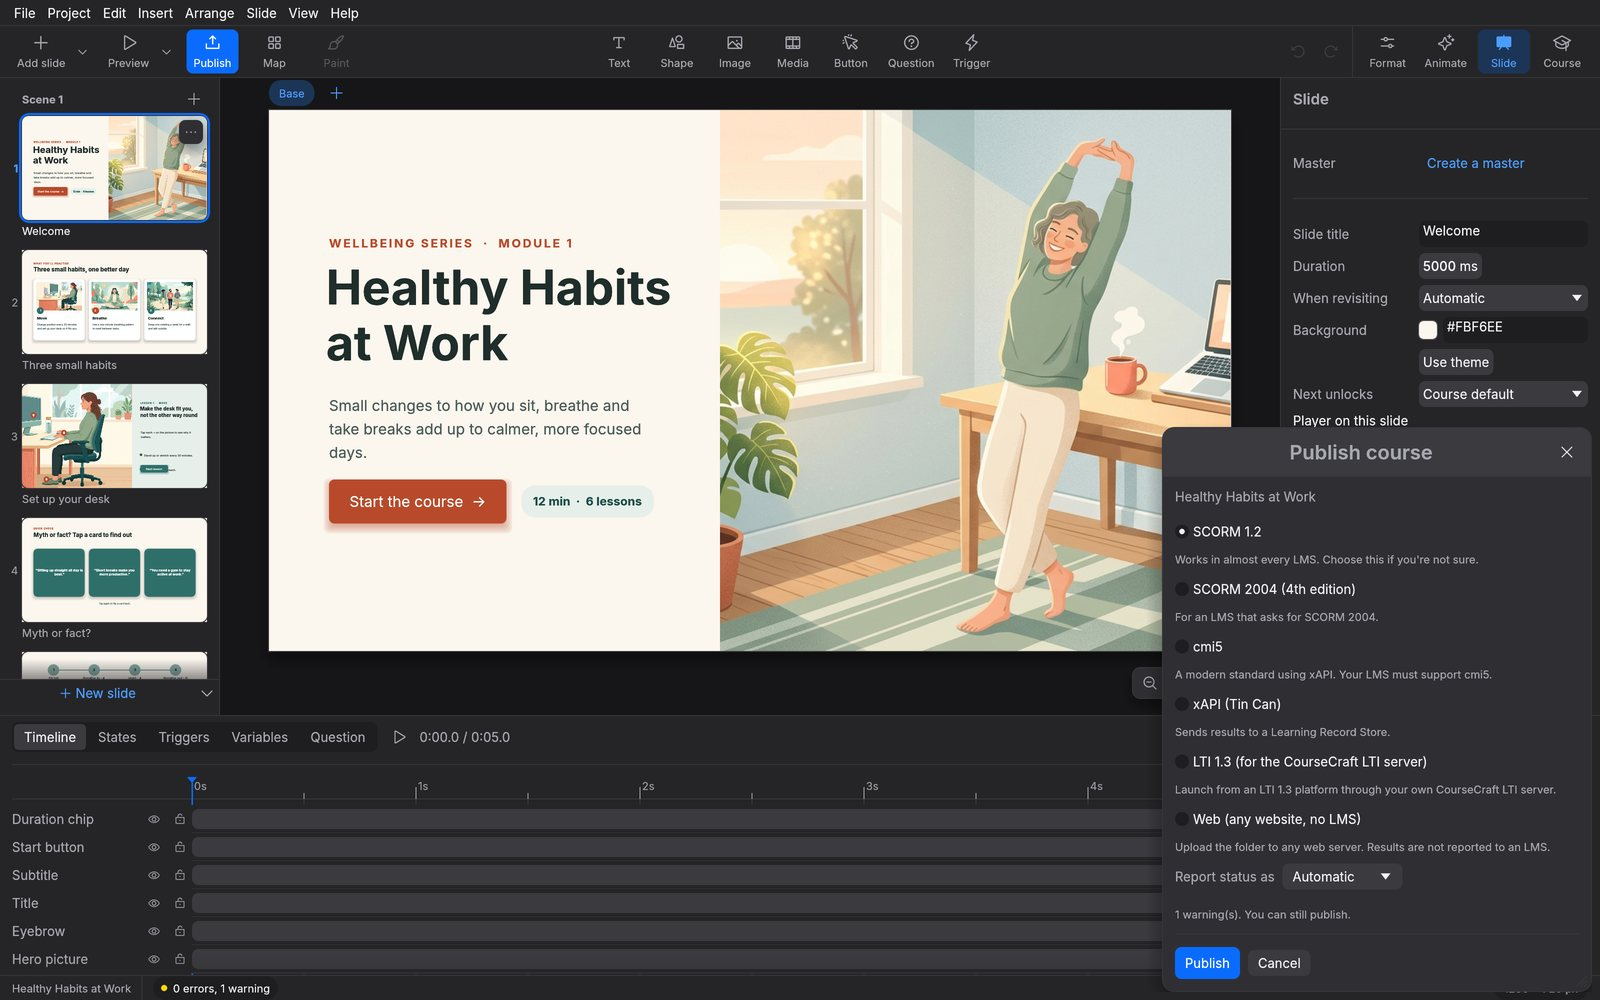
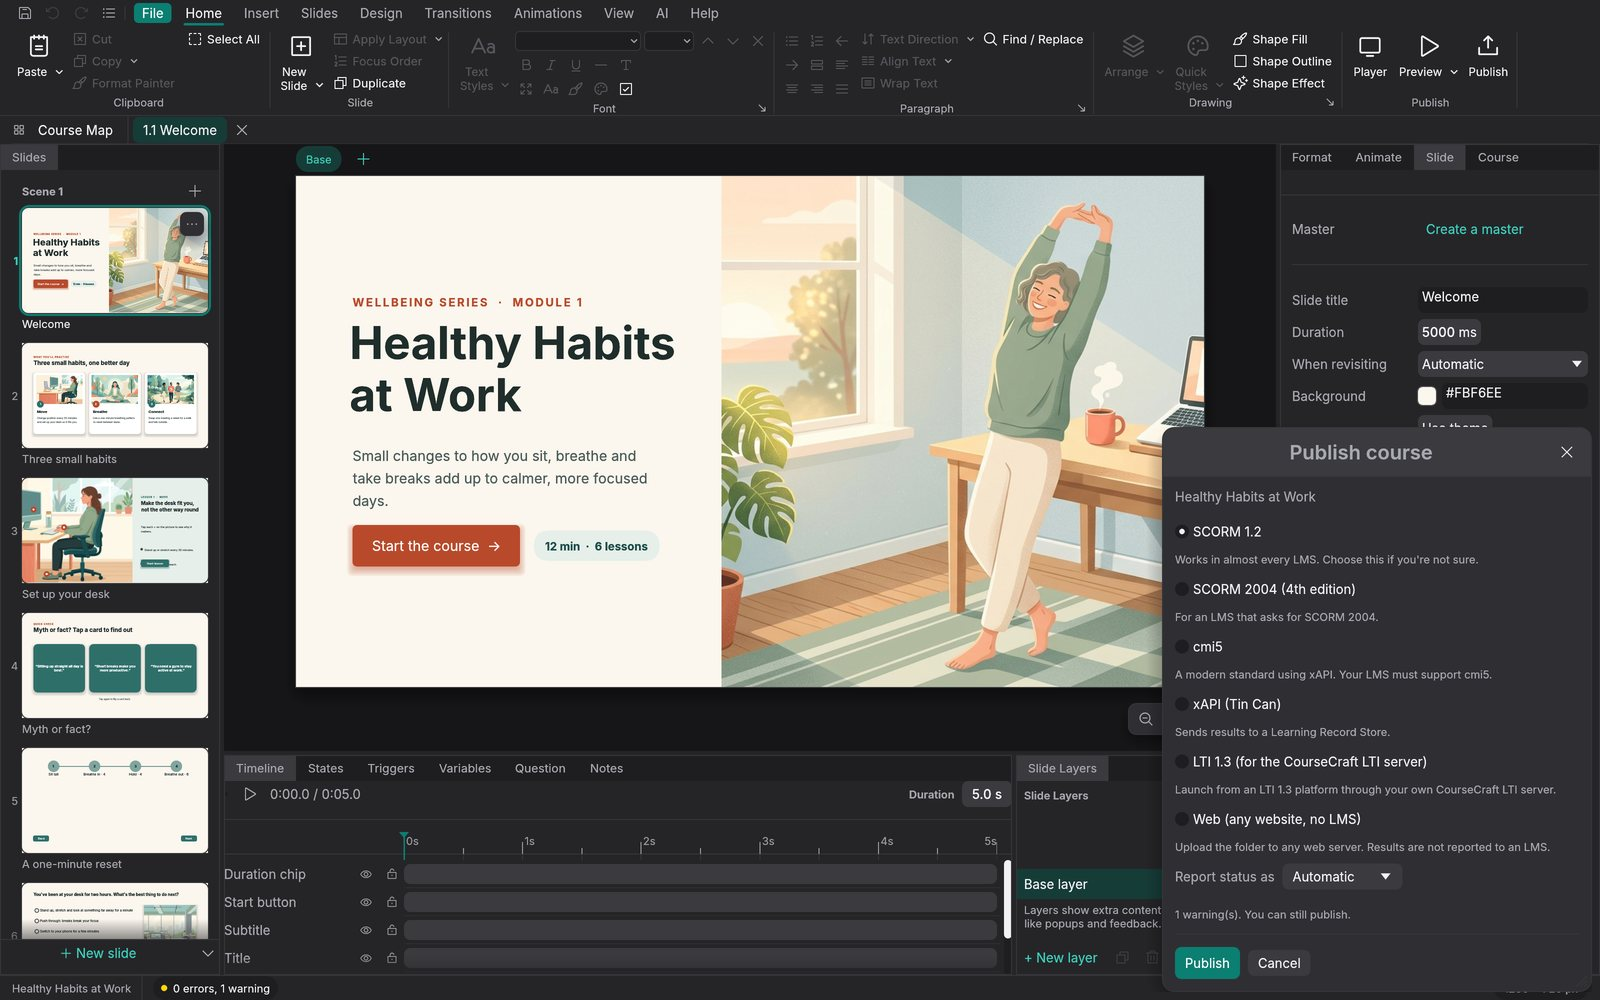
README: new screenshots and tour of the 0.5.0 ribbon editor; refresh features and updates

diff --git a/README.md b/README.md
@@ -44,12 +44,14 @@ CourseCraft checks for a newer version when it starts (turn that off in Preferen
 - **Installer (`coursecraft-<version>-windows-x64-setup.exe`):** Installs per user into `%LOCALAPPDATA%\Programs\CourseCraft` without administrator rights, adds a Start menu shortcut (and an optional desktop shortcut), and registers an uninstaller in Windows **Settings → Apps**.
 - **Settings and logs:** Preferences, saved project version history, and crash notes (`last-crash.txt`) are stored in `%APPDATA%\CourseCraft`.
 
-Built to the conventions of the [ArtCraft](https://github.com/storytold) Crafting Apps: native egui/wgpu, the same code on the web via WebAssembly, every action a command, and no crashes.
+Built to the conventions of the [ArtCraft](https://github.com/storytold) Crafting Apps, and on their open-source `craft-ui`, `craft-i18n` and `craft-update` libraries (the same ones DeckCraft uses): native egui/wgpu, the same code on the web via WebAssembly, every action a command, and no crashes.
 
 ## What it does
 
+- **A ribbon editor with panels you arrange:** commands grouped in ribbon tabs, with extra tabs for what you select, and Slides, Timeline, Triggers, States, the inspectors and more as panels you can move, tab, split, float or close. Your layout is saved, and every label is ready for translation.
 - **A visual editor** on the desktop and in the browser: multi-select, align and distribute, smart guides, grouping, copy and paste, slide masters, layouts and templates, find and replace, image crop, a timeline, and PowerPoint import.
 - **Interactive courses:** layers, triggers, variables, animation, and twelve question types with feedback, question banks and results slides.
+- **Text and buttons that behave:** click to place a label that fits its text and grows as you type, or drag a box that wraps. Group a shape, icon and text and make the group act as one button, with one hover look, one click, one Tab stop and one screen-reader name.
 - **Rich object states:** hover, pressed, selected, visited and your own states, each a full second look for an object (picture, text, fill, outline, shadow, glow, rotation and items of its own), all side by side in the States tab and edited right on the canvas.
 - **Any slide size:** Full HD, HD, 4:3, square or portrait, or your own; resize a whole course with a live preview of how content fits.
 - **A calm, consistent editor** in dark and light, checked screen by screen against the same UI rules, and a learner player with a seekbar you can lock and a Play button before a web course starts.
@@ -114,7 +116,7 @@ Choose Help > Report a Problem to tell us what went wrong, or Help > Suggest a F
 - **What is shared.** Your two answers, plus (if you leave "Include technical details" on) the CourseCraft version, your OS and CPU, whether this is the desktop or web app, the last 20 status messages from this session, and a note about the last crash if there was one. All of it is shown in the window before you send anything.
 - **What is never shared.** Course content, file names, file paths, user names, AI keys and settings. Paths and file names in messages are replaced with `<path>` and `<file>`.
 - **After a crash.** The desktop app writes a short `last-crash.txt` (time, version, OS, panic message and location, paths removed) to its settings folder. On the next start it asks whether to report it, and deletes the file once you report or dismiss it.
-- **Updates.** The desktop app checks GitHub Releases for a newer version at start (which you can turn off in Preferences) or when you choose Help > Check for Updates. Downloads are verified against the release's `SHA256SUMS.txt`, and nothing installs or restarts without your confirmation.
+- **Updates.** The desktop app checks GitHub Releases for a newer version at start (which you can turn off in Preferences) or when you choose Help > Check for Updates. Downloads are verified against the release's `SHA256SUMS.txt`. On macOS and Linux it can install the update with Update and Restart, only when you click it and never with unsaved work; on Windows it gives you the installer to run.
 
 ## Workspace
 
@@ -137,8 +139,8 @@ Choose Help > Report a Problem to tell us what went wrong, or Help > Suggest a F
 | `coursecraft-cli`, `coursecraft-mcp` | Headless tool and MCP server; agents start at [docs/cli.md](docs/cli.md) |
 
 See [docs/architecture.md](docs/architecture.md) and [docs/roadmap.md](docs/roadmap.md). The editor's
-layout (a tabbed ribbon grouping commands by task, with every planned button already in
-place) is specified in [docs/ui/](docs/ui/README.md); what CourseCraft can and cannot do yet,
+layout (a tabbed ribbon grouping commands by task, with planned buttons shown greyed out until
+they work) is specified in [docs/ui/](docs/ui/README.md); what CourseCraft can and cannot do yet,
 feature by feature, is in [docs/ui/feature-parity.md](docs/ui/feature-parity.md).
 
 ## Help and contributing
